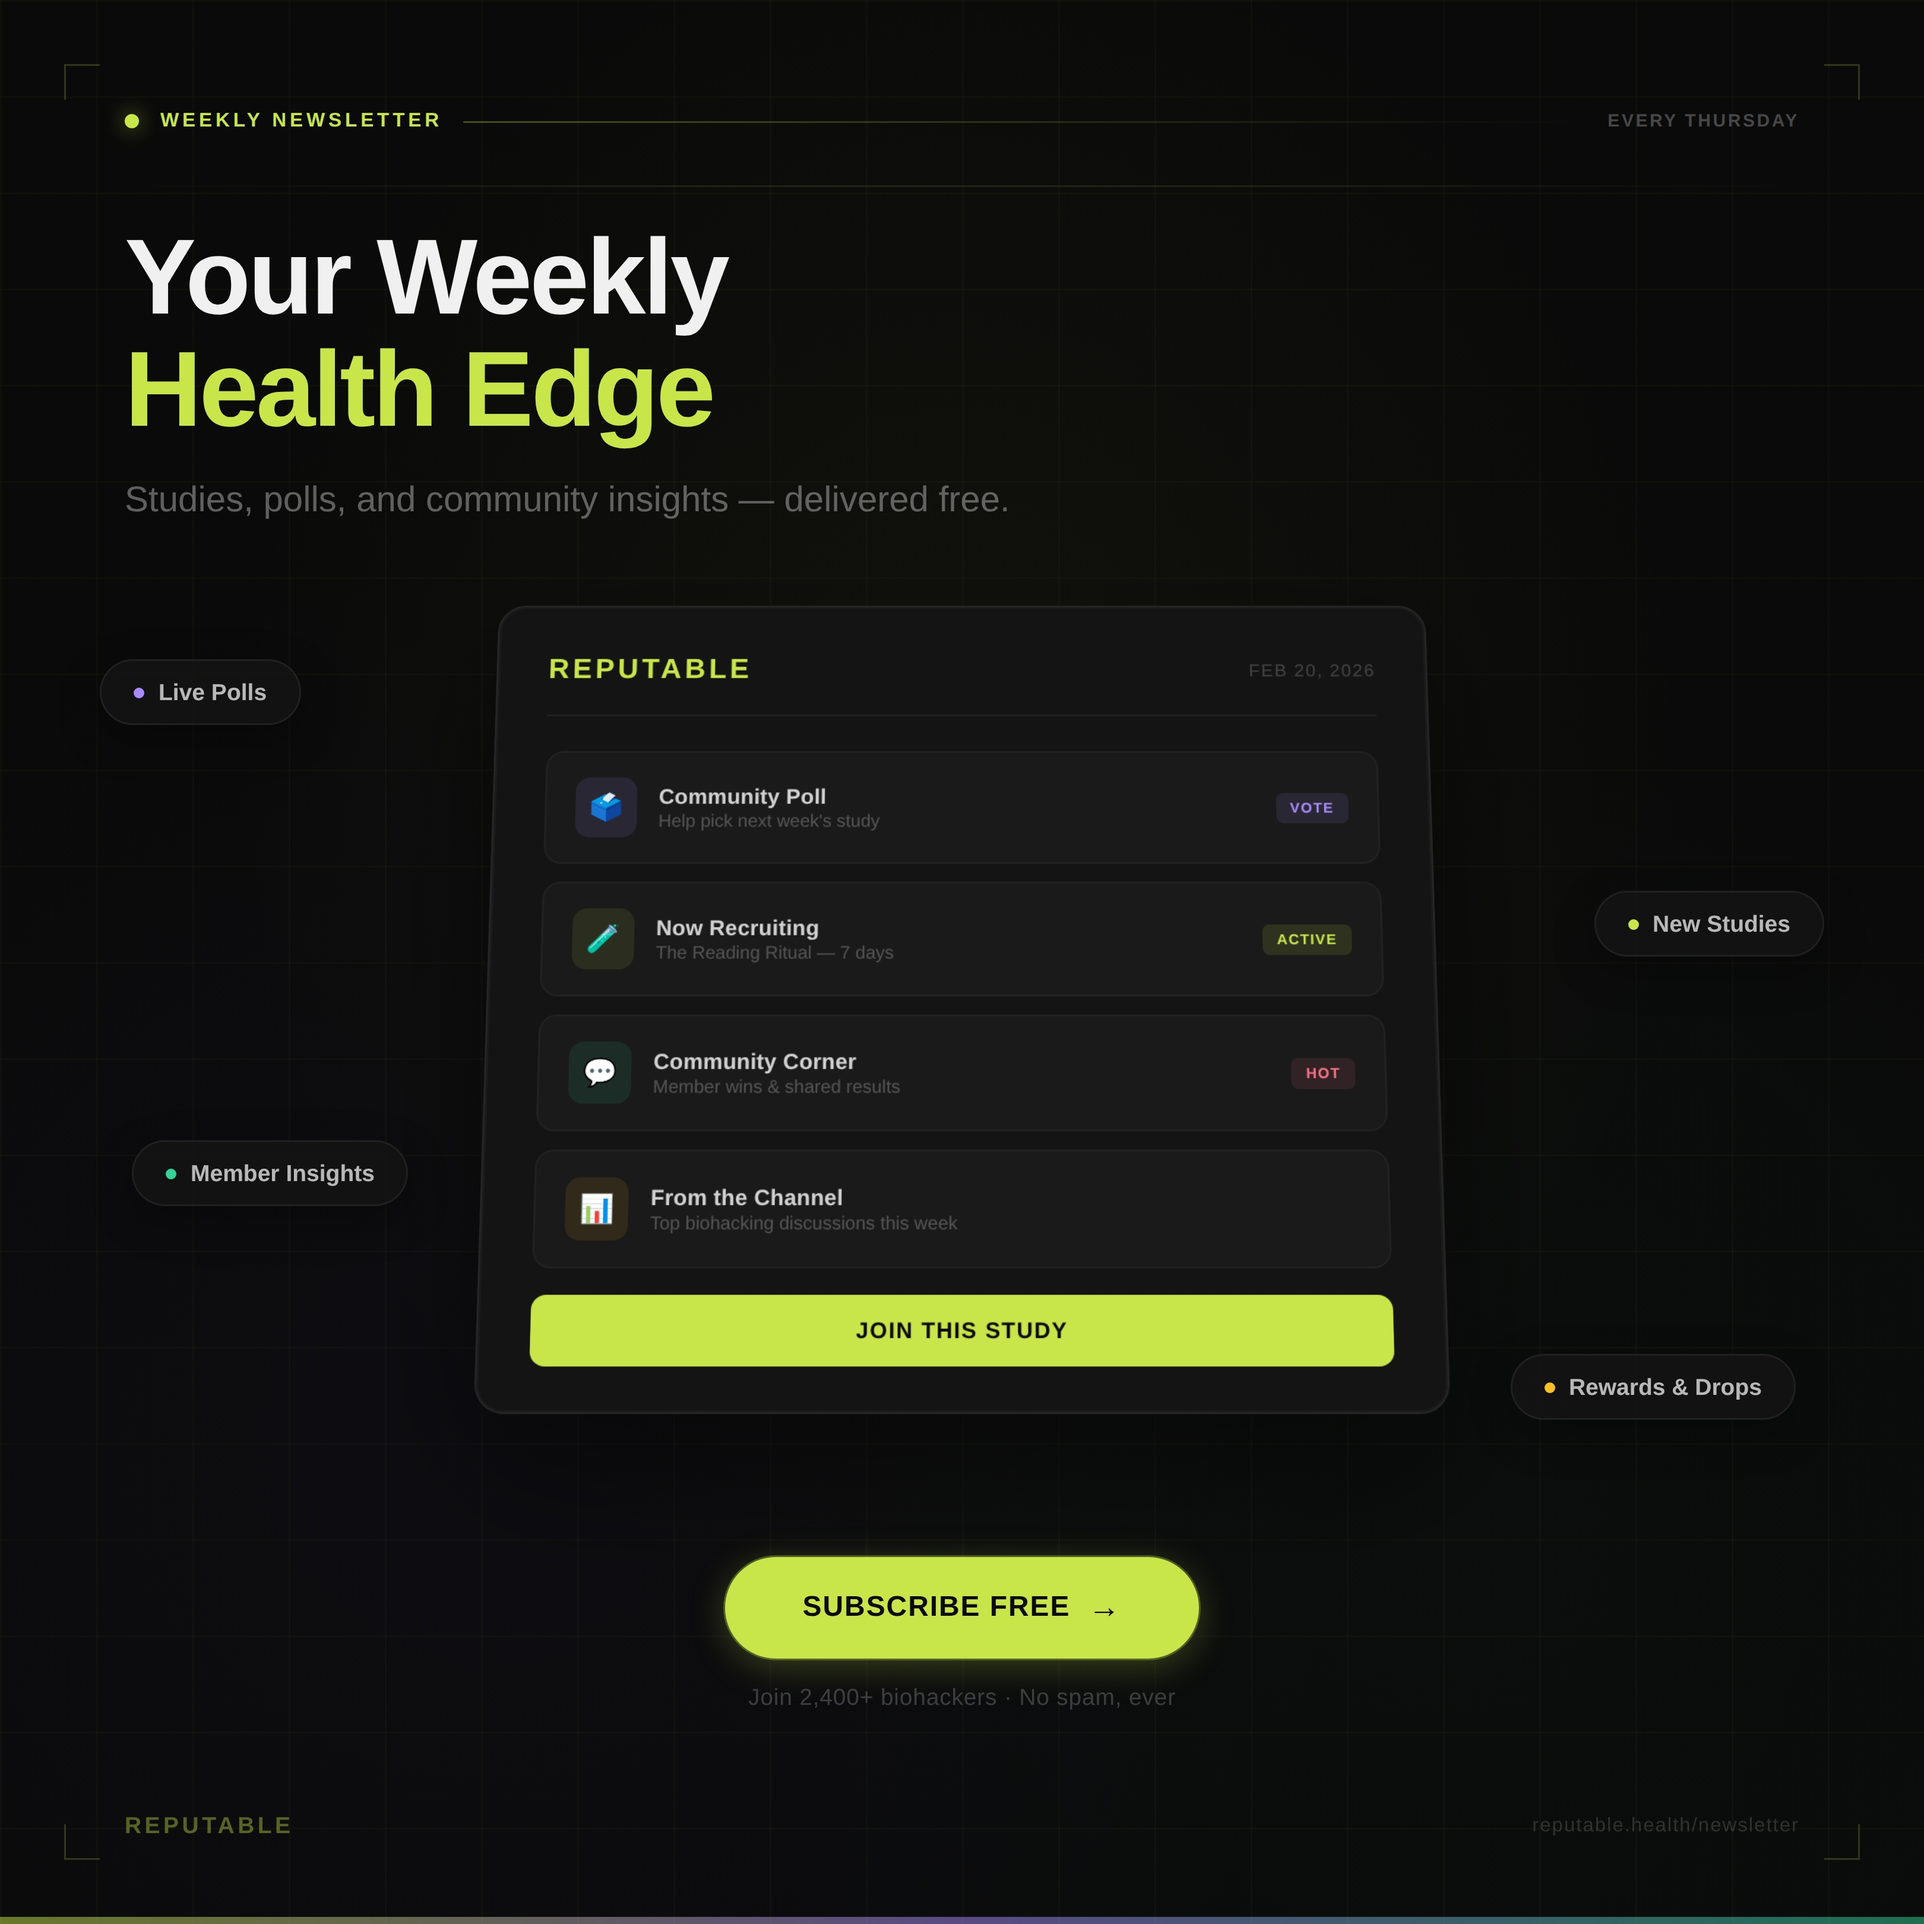
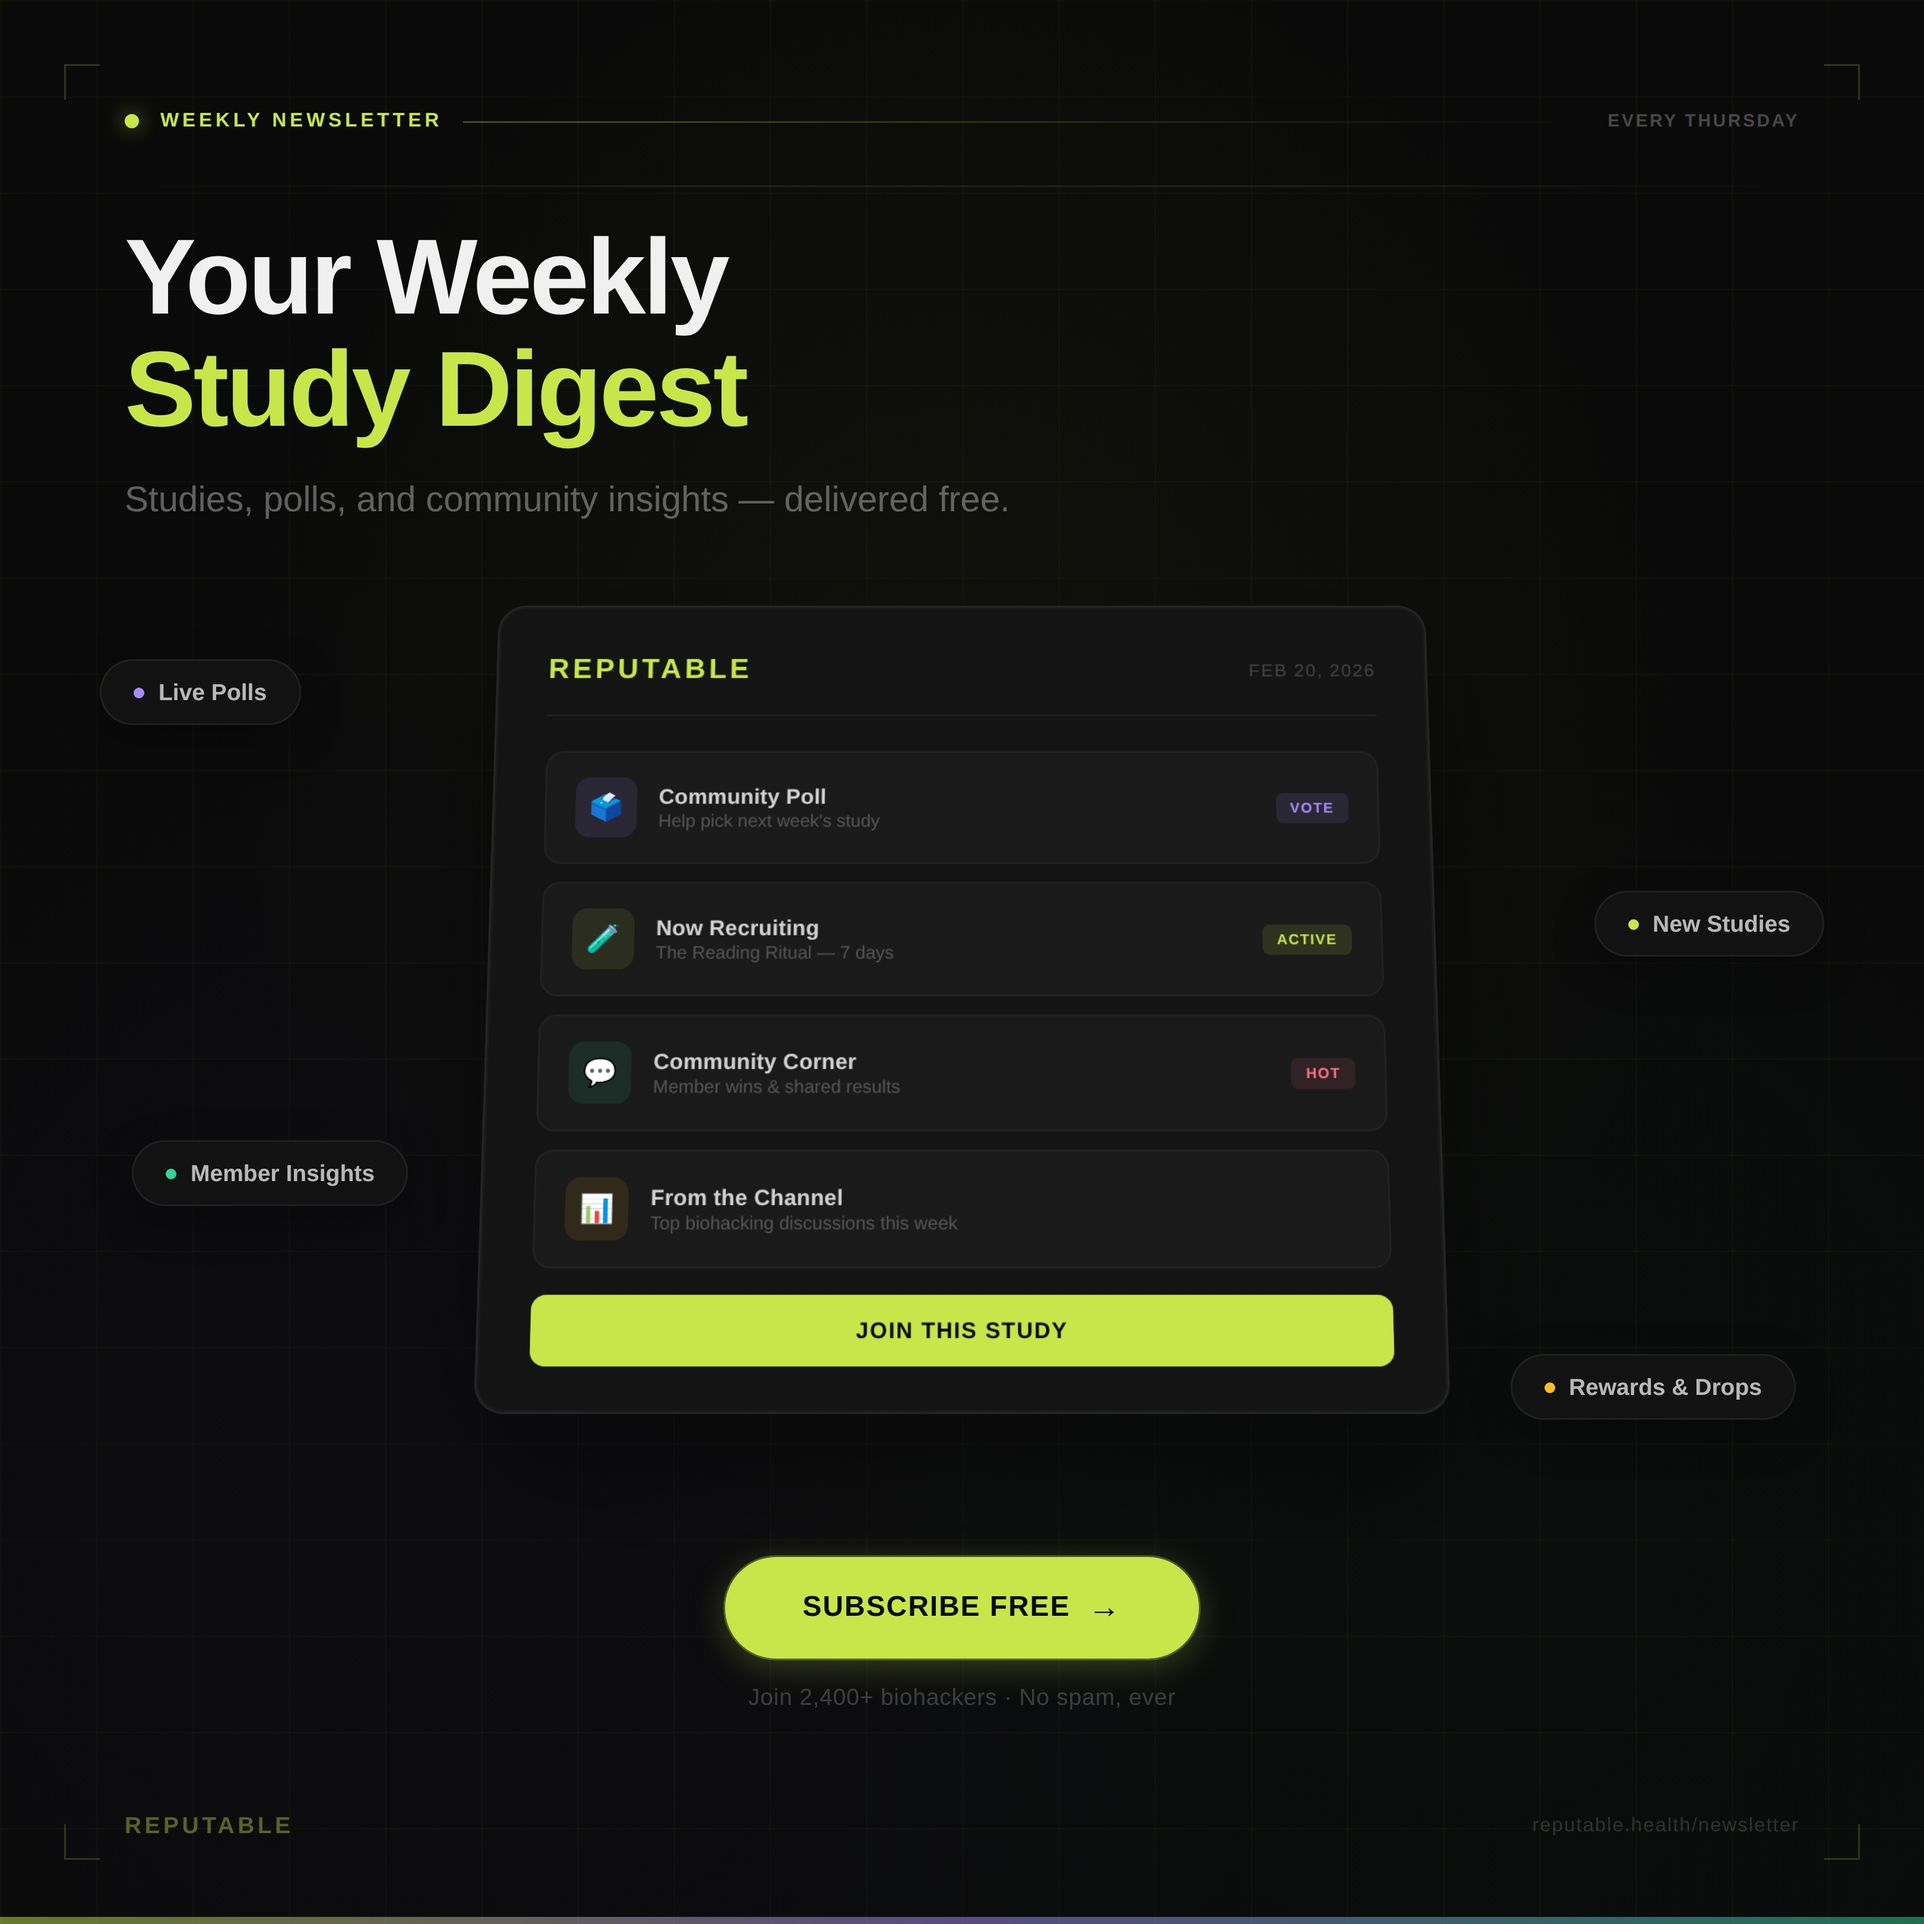
Change newsletter headline to 'Your Weekly Study Digest'
https://claude.ai/code/session_01TfrrBTyPYsf3Z7Zsrx7aQ5

Changed region(s): [[0.0623, 0.187, 0.4052, 0.2494]]

diff --git a/newsletter-signup-post.html b/newsletter-signup-post.html
@@ -378,7 +378,7 @@
 
   <!-- Headline -->
   <div class="headline">
-    <h1>Your Weekly<br><span class="accent">Health Edge</span></h1>
+    <h1>Your Weekly<br><span class="accent">Study Digest</span></h1>
     <div class="sub">Studies, polls, and community insights — delivered free.</div>
   </div>
 
